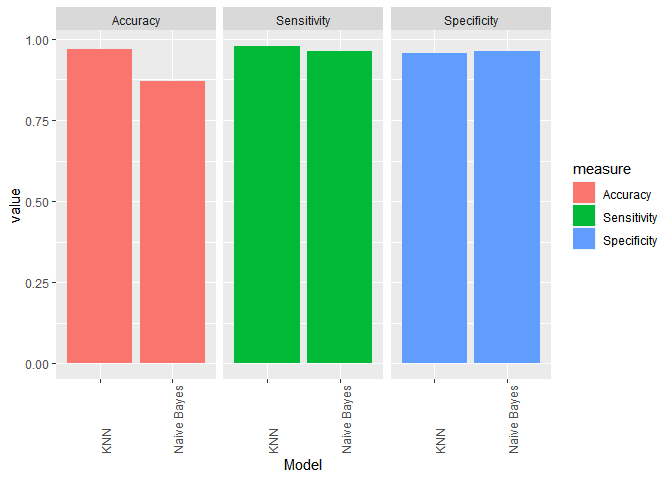
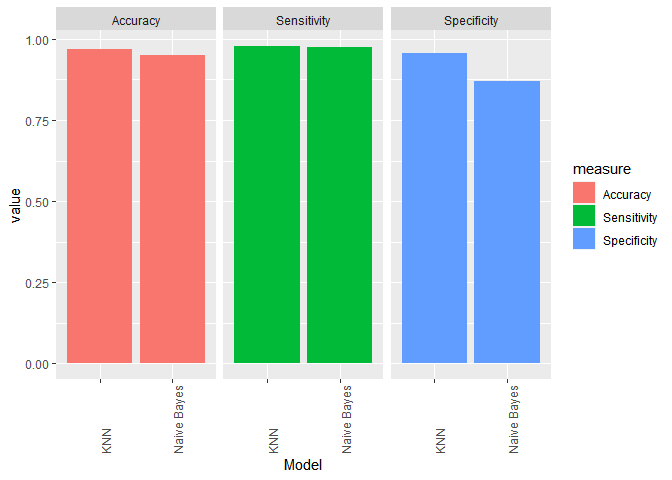
Initial commit

Changed region(s): [[0.6875, 0.0938, 0.8125, 0.1875], [0.1875, 0.0938, 0.3125, 0.1875], [0.4375, 0.0938, 0.5625, 0.125]]

diff --git a/Mark.md b/Mark.md
@@ -268,18 +268,19 @@ nb_cm <- confusionMatrix(pred, data_test[, 9])
 Comparison of Two Models
 
 ``` r
-com_metric <- data.frame(Model = c("KNN", "Naive Bayes"), Accuracy = 
-c(knn_cm[[2]], nb_cm[[4]][2]), Sensitivity = c(knn_cm[[3]], 
-nb_cm[[4]][3]), Specificity = c(knn_cm[[4]], nb_cm[[4]][3]))
-com_metric
+com_metrics <- data.frame(Model = c("KNN", "Naive Bayes"), Accuracy = 
+c(knn_cm[[2]], as.numeric(nb_cm[[3]][1])), Sensitivity = c(knn_cm[[3]], 
+as.numeric(nb_cm[[4]][1])), Specificity = c(knn_cm[[4]], 
+as.numeric(nb_cm[[4]][2])))
+com_metrics
 ```
 
-    ##                   Model  Accuracy Sensitivity Specificity
-    ##                     KNN 0.9700000   0.9772727   0.9555556
-    ## Specificity Naive Bayes 0.8695652   0.9615385   0.9615385
+    ##         Model Accuracy Sensitivity Specificity
+    ## 1         KNN     0.97   0.9772727   0.9555556
+    ## 2 Naive Bayes     0.95   0.9740260   0.8695652
 
 ``` r
-complong <- gather(com_metric, key = "measure", value = "value", c("Accuracy", "Sensitivity", "Specificity"))
+complong <- gather(com_metrics, key = "measure", value = "value", c("Accuracy", "Sensitivity", "Specificity"))
 
 complong %>% 
   ggplot(aes(x = Model, y = value, fill = measure)) +
@@ -294,6 +295,6 @@ Conclusion
 
 Two machine learning techniques, K-nearest neighbors (KNN) and Naive
 Bayes, were used to classify a data set of breast cancer into two
-categories: Malignant and Benign. KNN had a slightly higher accuracy and
-sensitivity than Naive Bayes. This suggests that KNN is a better method
-for this particular data set.
+categories: Malignant and Benign. KNN had a slightly higher accuracy,
+sensitivity, and specificity than Naive Bayes. This suggests that KNN is
+a better method for this particular data set.
